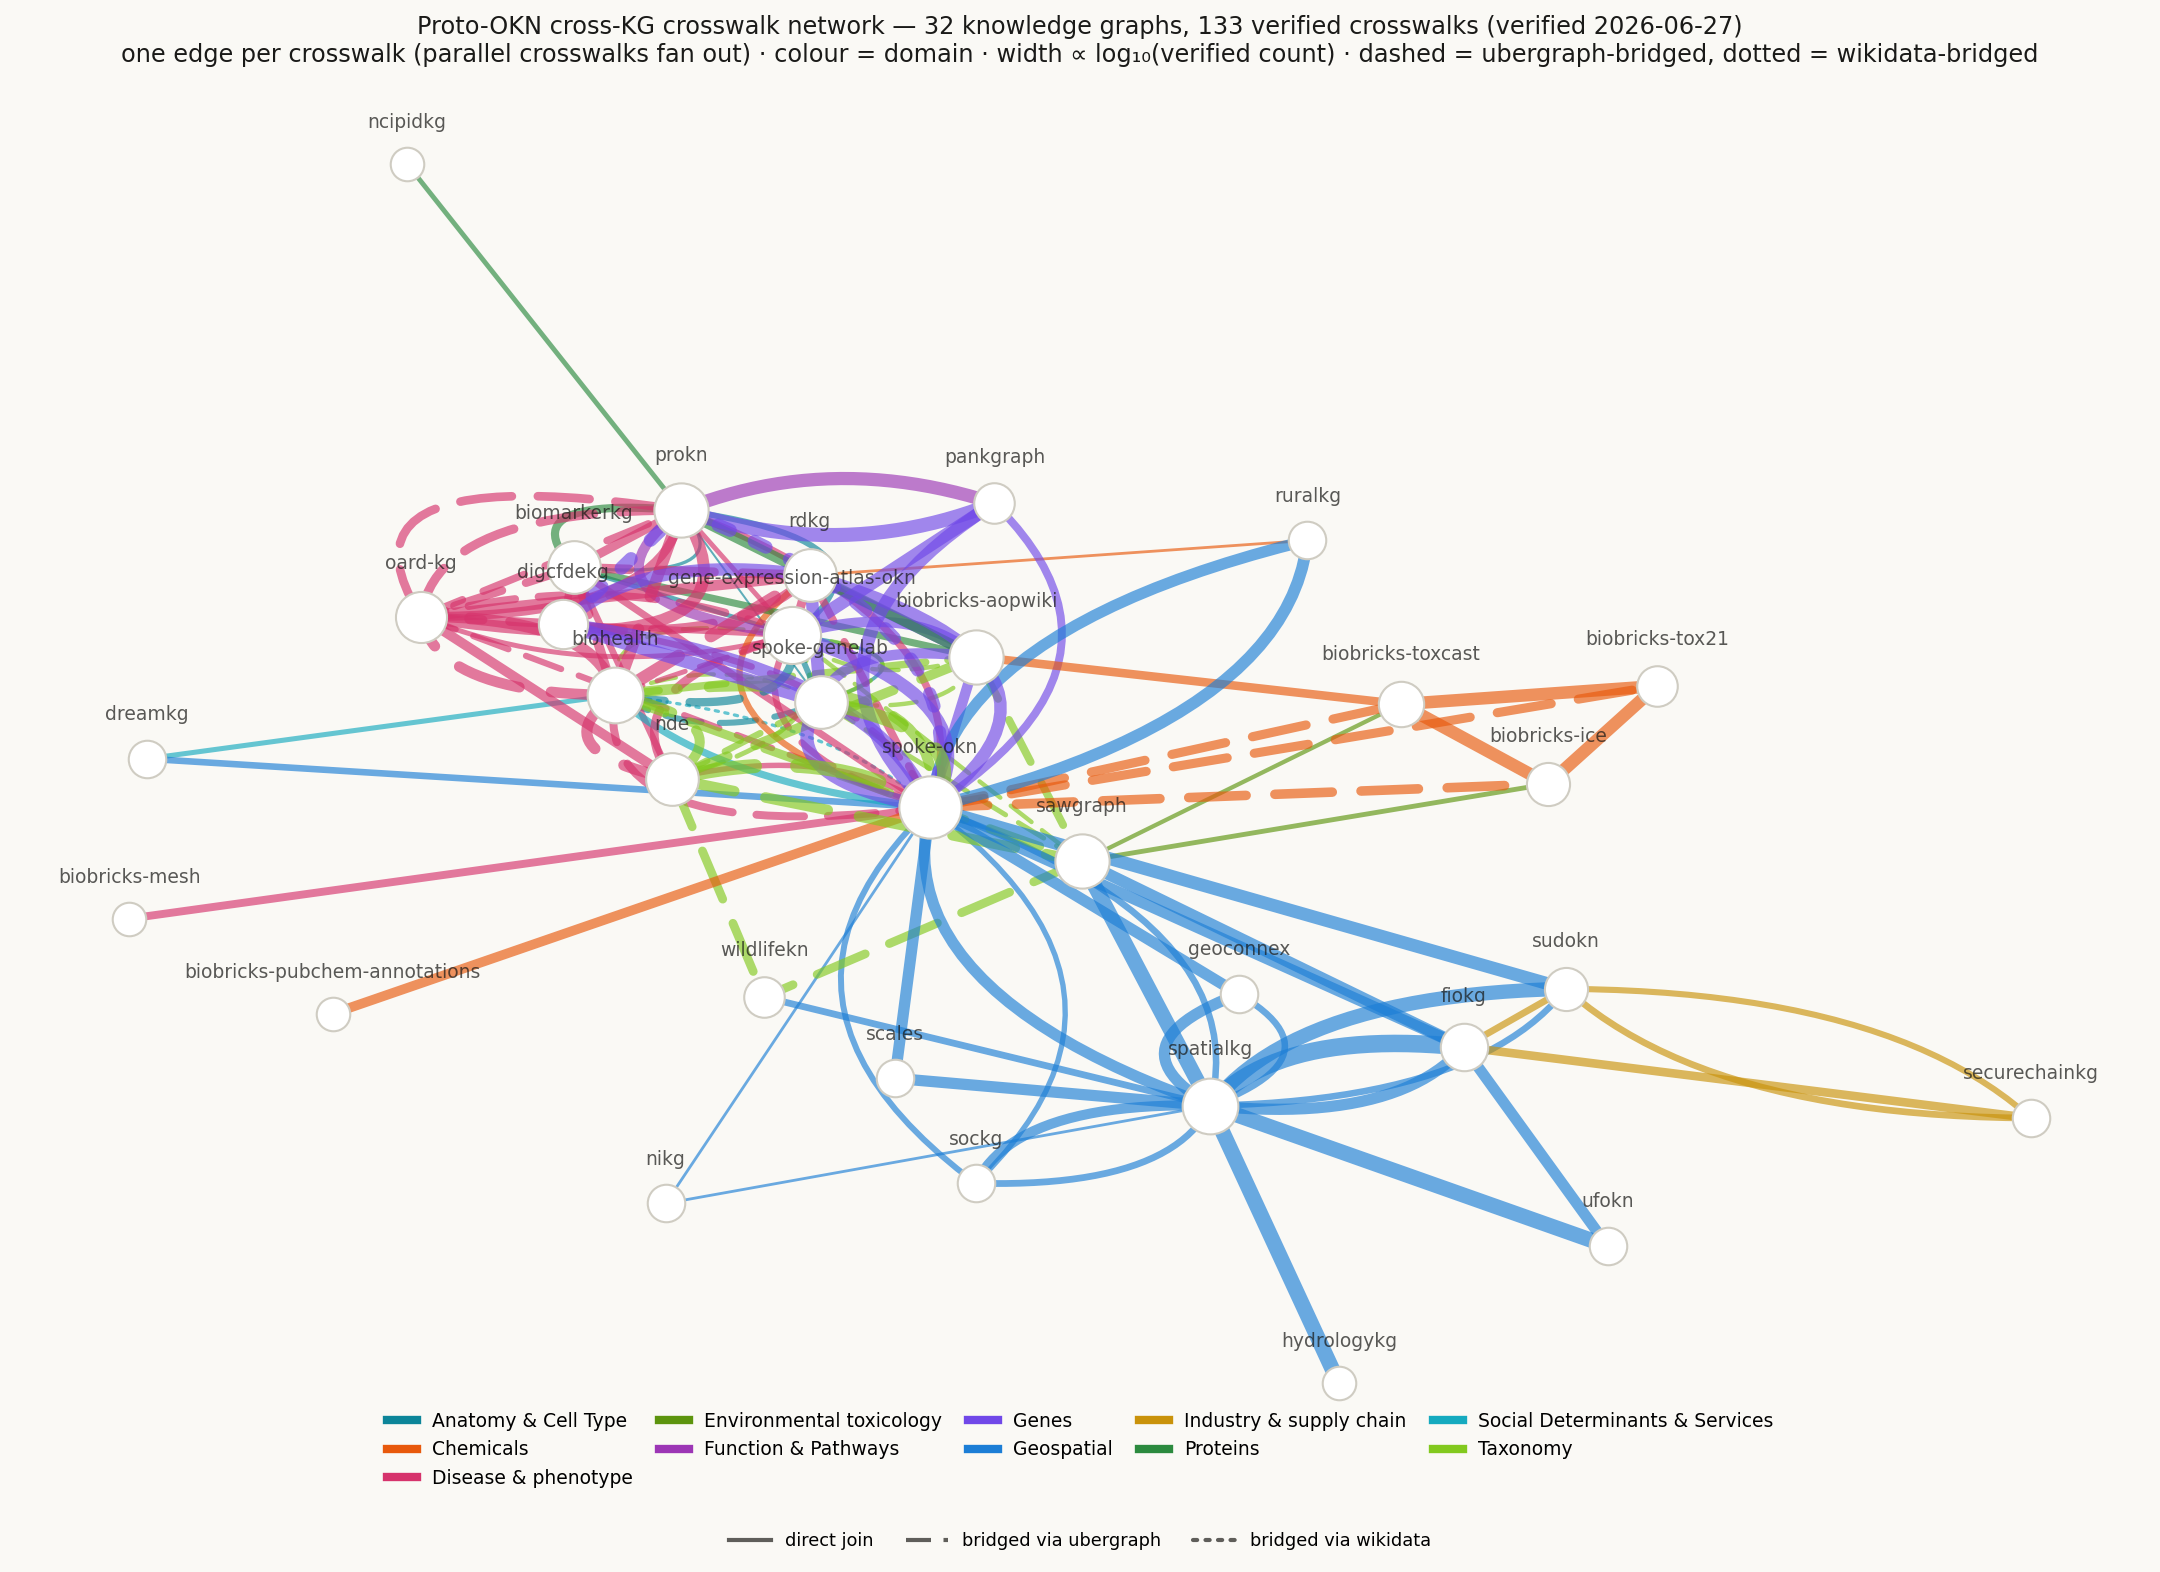
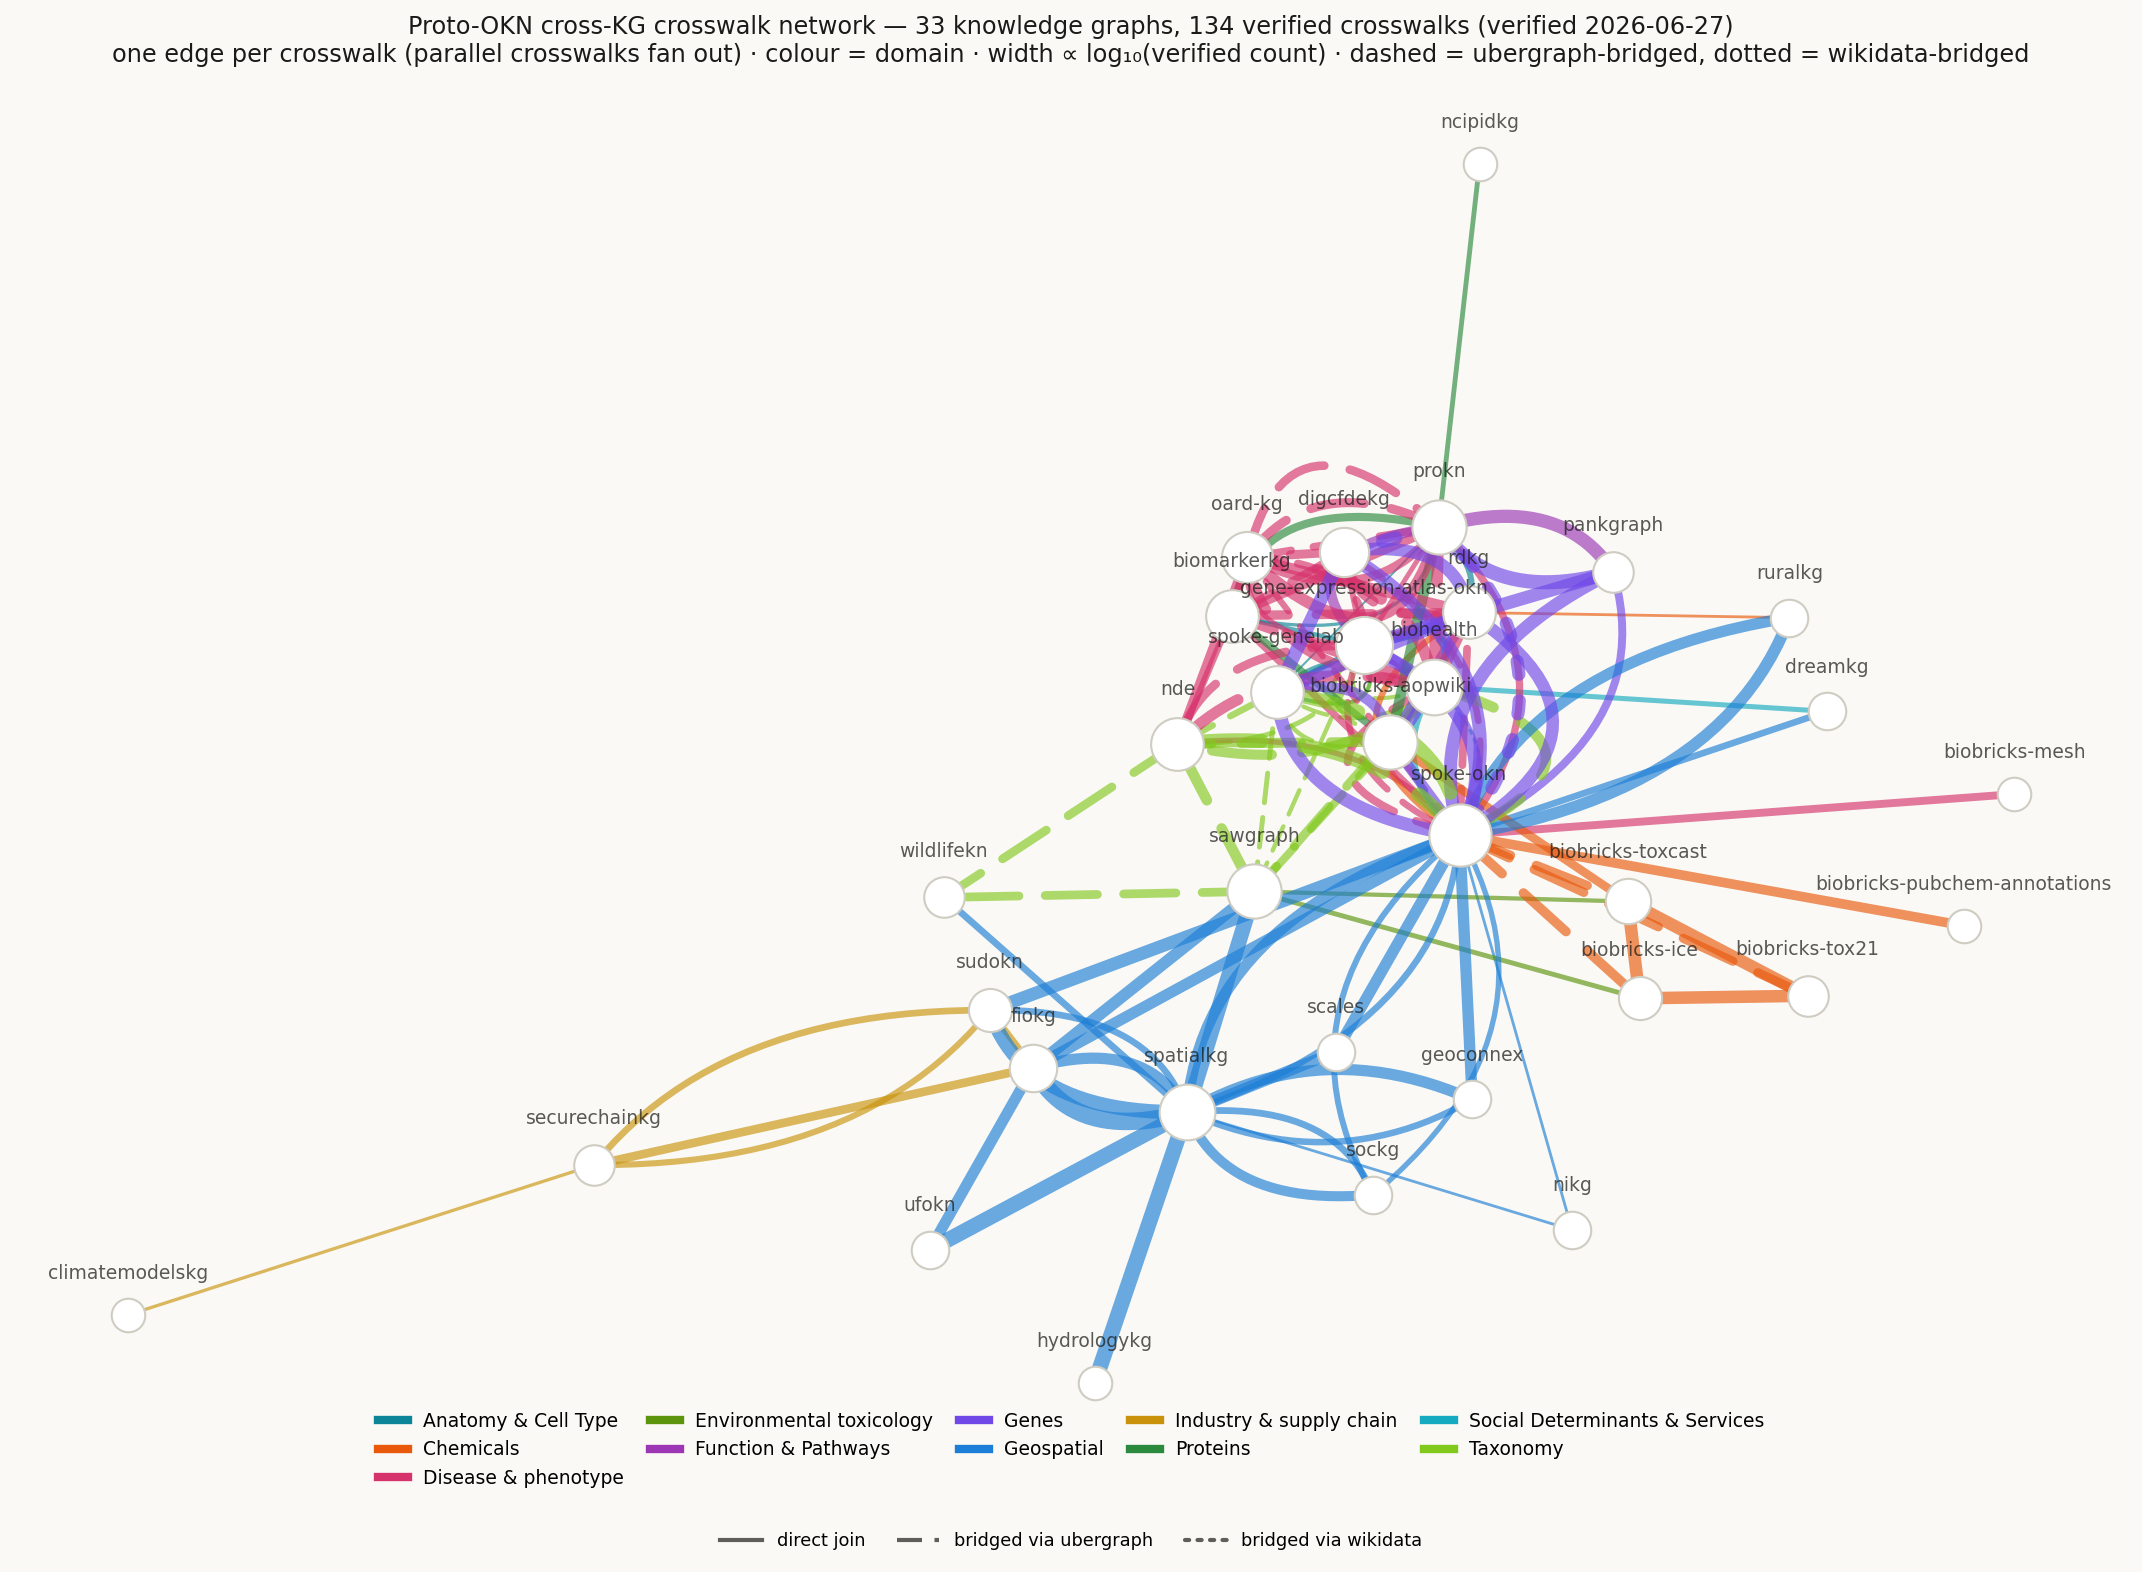
Add climatemodelskg<->securechainkg dependency crosswalk (P1); refresh network + README

diff --git a/docs/crosswalks/crosswalk-network.html b/docs/crosswalks/crosswalk-network.html
@@ -43,7 +43,7 @@
 <body>
 <header>
   <h1>Proto-OKN cross-KG crosswalk network</h1>
-  <p>32 knowledge graphs, 133 verified crosswalks (verified 2026-06-27). One edge per crosswalk &mdash; parallel crosswalks between a pair fan out as arcs · color = data domain · width &#8733; log&#8321;&#8320;(verified count).</p>
+  <p>33 knowledge graphs, 134 verified crosswalks (verified 2026-06-27). One edge per crosswalk &mdash; parallel crosswalks between a pair fan out as arcs · color = data domain · width &#8733; log&#8321;&#8320;(verified count).</p>
   <p class="tip">&#9654; <b>Hover</b> a node or edge for detail · <b>drag</b> to rearrange · <b>scroll</b> to zoom · <b>double-click</b> a node to unpin it.<br>&#9654; <b>Click a legend item</b> &mdash; a domain (e.g. <b>Chemicals</b>) or a line style (e.g. <b>via ubergraph</b>) &mdash; to toggle those edges.</p>
 </header>
 <div class="bar" id="legend"></div>
@@ -183,6 +183,7 @@ const R=[
 ["I",["fiokg","sudokn"],64,"NAICS"],
 ["I",["securechainkg","sudokn"],35,"NAICS"],
 ["I",["securechainkg","sudokn"],58,"SUDOKN_industry_sector"],
+["I",["climatemodelskg","securechainkg"],3,"climatemodelskg Source IRI"],
 
 ["P",["biobricks-aopwiki","prokn"],1805,"UniProt"],
 ["P",["biomarkerkg","biobricks-aopwiki"],84,"UniProt"],

diff --git a/tests/test_crosswalks.py b/tests/test_crosswalks.py
@@ -59,14 +59,18 @@ async def test_known_non_join_pair_is_flagged_not_verified():
 
 @pytest.mark.asyncio
 async def test_single_kg_non_join_blocks_any_pairing():
-    # digcfdekg is unmaterialized at the endpoint: nothing to join, with anything.
-    out = await get_join_strategy("digcfdekg", "prokn")
+    # maudekg is a profiled island (single-KG known_non_join record): nothing to
+    # join, with anything. The bare-"kg" record must block pairing it with prokn.
+    out = await get_join_strategy("maudekg", "prokn")
     assert out["status"] == "known_non_join"
 
 
 @pytest.mark.asyncio
 async def test_unknown_pair_routes_to_find_crosswalks():
-    out = await get_join_strategy("prokn", "securechainkg")
+    # hydrologykg (water/geospatial) and prokn (protein/disease) are both
+    # materialized but share no precomputed crosswalk and neither is an island,
+    # so the verdict is "unknown" -> go discover a key live.
+    out = await get_join_strategy("hydrologykg", "prokn")
     assert out["status"] == "unknown"
     assert "find_crosswalks" in out["note"]
 

diff --git a/README.md b/README.md
@@ -54,7 +54,7 @@ where a question one graph can't answer alone becomes answerable by combining tw
 This section catalogs the verified crosswalks and shows the queries that exercise
 them.
 
-A visual map of the whole network — all 133 crosswalks across 32 graphs, drawn as
+A visual map of the whole network — all 134 crosswalks across 33 graphs, drawn as
 direct KG-to-KG edges (edge width ∝ log of the verified join count). Each crosswalk is
 its own edge, so multiple crosswalks between the same pair of graphs fan out as parallel
 arcs. Identifier-bridged joins (e.g. `DOID↔MONDO` via `ubergraph`, `HGNC→Entrez` via
